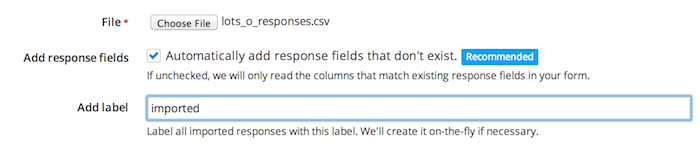
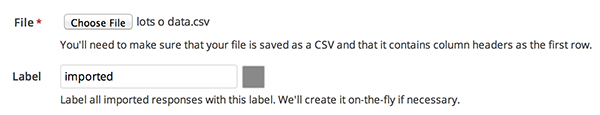
update importing responses article
close #77

diff --git a/contents/articles/screendoor/responses/importing_responses.md b/contents/articles/screendoor/responses/importing_responses.md
@@ -3,18 +3,32 @@ title: Importing responses
 order: 4
 app_pages:
   - projectadmin-settings-import
+  - projectadmin-imports-edit
 ---
 
-## Importing responses
-
-To import responses into your project from a [CSV](http://en.wikipedia.org/wiki/Comma-separated_values) file, select the "Import responses" box on the left-hand side of the "Settings" page for your project. Make sure your CSV file is properly formatted, and that it contains column headers as the first row. Select your CSV file, optionally add a label that will be applied to all imported items, and click the "Import responses" button to import responses from your CSV file.
+To import responses into your project from a [CSV](http://en.wikipedia.org/wiki/Comma-separated_values) file, select the "Import responses" box on the left-hand side of the "Settings" page for your project. Make sure your CSV file is properly formatted, and that it contains column headers as the first row. Select your CSV file, optionally add a label that will be applied to all imported items, and click the "Preview your import" button to begin the import process.
 
 ![import responses](../images/screenshot_import.png)
+
+## Importing columns that correspond to existing response fields
+
+From the preview page, you can configure how you want your responses to be imported. Screendoor will make an intelligent guess about which column in your CSV file corresponds to which response field in your form -- you'll see a blue "Existing" label next to columns that Screendoor has associated with an existing response field. But you can also change the response field for a column manually by clicking the "Edit" button and selecting a field from the dropdown.
+
+![edit response field for column](../images/screenshot_import_edit.png)
+
+You can even add a column as a new response field: Just click "Add this as a new field" and select the field name and type you'd like to import your column as.
+
+## Importing columns as new response fields
+
+If Screendoor doesn't find a response field that corresponds to a column in your CSV file, it will give you the option to create a new field -- you'll see a green "New" label next to it. You can edit this new field's name and type, and even decide to add it as an existing field instead.
+
+![import new field](../images/screenshot_import_new.png)
+
+Finally, if you would like to skip importing a specific column, simply click "Skip" and it won't be imported.
+
+When you're done configuring your import, click "Finish import."
 
 ---
 
 ## I have my data in an Excel file. Can I get it into Screendoor?
 Yes! Save your data as a CSV file from Excel. Then you can easily import it into Screendoor (see above).
-
-## Will importing responses automatically create fields in my Screendoor form?
-If the "Automatically add response fields that don't exist" checkbox is left checked (recommended), Screendoor will add a new response field to your project for every column header in your CSV file that does not correspond to a pre-existing response field. For example, if your CSV file includes a column header `favorite color` that does not already exist in your project, the `favorite color` field will be added to your project as a new response field. You will be able to edit this new field in the form builder and new responses will be able to include information about the responder's favorite color.
